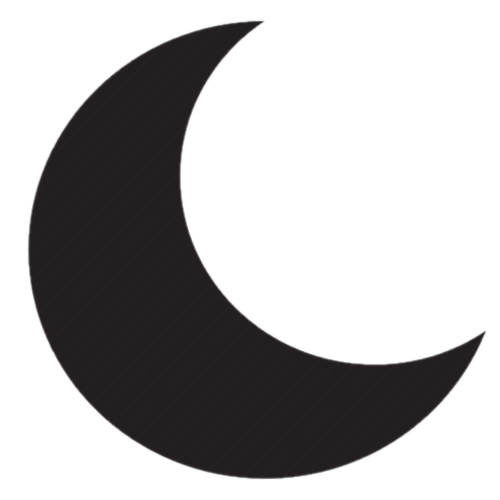
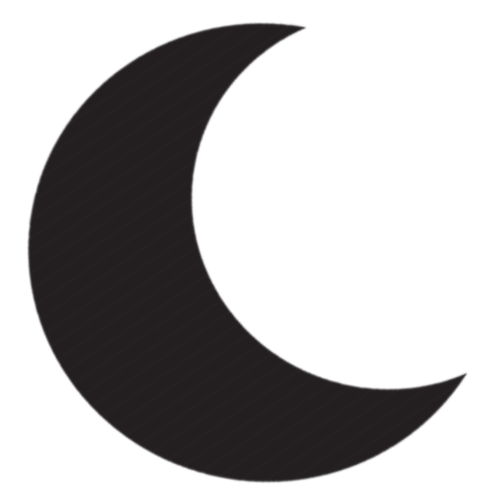
adjust speed

diff --git a/templates/daily.html b/templates/daily.html
@@ -26,7 +26,7 @@
             display: block;
         }
     </style>
-    <link rel="icon" href="{{url_for('static', filename='moonicon.png')}}">
+    <link rel="icon" href="{{url_for('static', filename='moonicon2.png')}}">
 </head>
 
 <script src="https://cdnjs.cloudflare.com/ajax/libs/jquery/3.5.1/jquery.min.js"
@@ -57,7 +57,7 @@
             const radius_change = 0.6 * radius_scale;
 
             const max_speed = 2.0;
-            const max_speed_exhale = 1.3;
+            const max_speed_exhale = 1.2;
             const acceleration_init = 0.06;
 
             var speed_client = 0;
